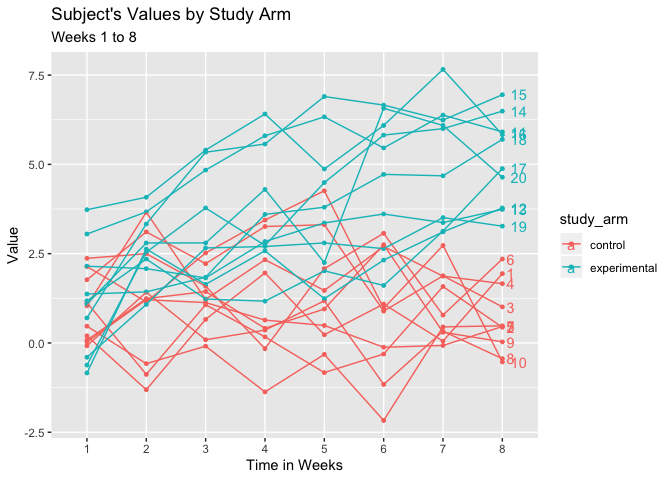
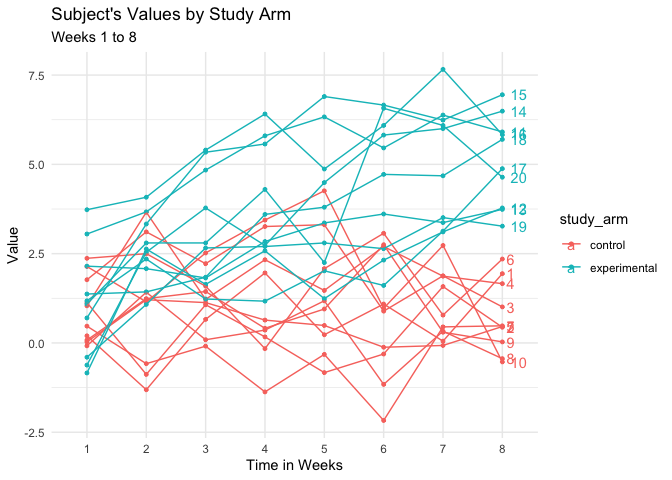
problem 3 - part 3 and 4

diff --git a/p8105_hw5_cq2207.md b/p8105_hw5_cq2207.md
@@ -7,14 +7,14 @@ Carolina Q Cardoso
 library(tidyverse)
 ```
 
-    ## ── Attaching packages ─────────────────────────────────────────────────────────── tidyverse 1.2.1 ──
+    ## ── Attaching packages ────────────────────────────────────────────────────────────────────────────── tidyverse 1.2.1 ──
 
     ## ✔ ggplot2 3.2.1     ✔ purrr   0.3.2
     ## ✔ tibble  2.1.3     ✔ dplyr   0.8.3
     ## ✔ tidyr   1.0.0     ✔ stringr 1.4.0
     ## ✔ readr   1.3.1     ✔ forcats 0.4.0
 
-    ## ── Conflicts ────────────────────────────────────────────────────────────── tidyverse_conflicts() ──
+    ## ── Conflicts ───────────────────────────────────────────────────────────────────────────────── tidyverse_conflicts() ──
     ## ✖ dplyr::filter() masks stats::filter()
     ## ✖ dplyr::lag()    masks stats::lag()
 
@@ -99,7 +99,8 @@ data_complete %>%
     title = "Subject's Values by Study Arm",
     subtitle = "Weeks 1 to 8",
     x = "Time in Weeks",
-    y = "Value")
+    y = "Value") + 
+  theme_minimal() 
 ```
 
 ![](p8105_hw5_cq2207_files/figure-gfm/Problem2-1.png)<!-- -->
@@ -129,11 +130,11 @@ higehr values than at baseline (Week 1).
 ``` r
 set.seed(10)
 
-sim_regression = function(beta1, n = 30, beta0 = 2) {
+sim_regression = function(beta1 = 0, beta0 = 2, n =30) {
   
   sim_data = tibble(
     x = rnorm(n, mean = 0, sd = 1),
-    y = beta0 + beta1 * x + rnorm(n, mean = 0, sd = 50^(.5))
+    y = beta0 + beta1 * x + rnorm(n, 0, sd = 50^(.5))
   )
   
   ls_fit = lm(y ~ x, data = sim_data) %>% broom::tidy()
@@ -168,3 +169,77 @@ sim_results
     ## # … with 9,990 more rows
 
 3)  Repeat the above for β1={1,2,3,4,5,6}
+
+<!-- end list -->
+
+``` r
+b1_values = list( 
+              "b1_1" = 1, 
+              "b1_2" = 2, 
+              "b1_3" = 3,
+              "b1_4" = 4,
+              "b1_5" = 5,
+              "b1_6" = 6
+              )
+
+sim_results2 = 
+  tibble(beta_1 = c(1,2,3,4,5,6)) %>% 
+  mutate(
+    output_lists = map(.x = b1_values, ~rerun(10000, sim_regression(beta1 = .x))),
+    estimate_dfs = map(output_lists, bind_rows)) %>% 
+  select(-output_lists) %>% 
+  unnest(estimate_dfs)
+sim_results2
+```
+
+    ## # A tibble: 60,000 x 3
+    ##    beta_1 beta1_hat p_value
+    ##     <dbl>     <dbl>   <dbl>
+    ##  1      1     1.29   0.291 
+    ##  2      1     2.12   0.120 
+    ##  3      1     0.702  0.668 
+    ##  4      1    -1.35   0.339 
+    ##  5      1     1.62   0.175 
+    ##  6      1     2.83   0.1000
+    ##  7      1     3.04   0.0939
+    ##  8      1     0.703  0.605 
+    ##  9      1     1.54   0.282 
+    ## 10      1     3.11   0.0225
+    ## # … with 59,990 more rows
+
+4)  Make a plot showing the proportion of times the null was rejected
+    (the power of the test) on the y axis and the true value of β2 on
+    the x axis. Describe the association between effect size and power.
+
+<!-- end list -->
+
+``` r
+sim_results2 %>%
+  mutate(reject = ifelse(p_value < 0.05, "yes", "no"), reject = as.factor(reject)) %>%
+  group_by(beta_1, reject) %>% 
+  summarize(n = n()) %>% 
+  mutate(
+    power = (n/sum(n))
+  ) %>% 
+  filter(reject == "yes") %>% 
+  ggplot(aes(x = beta_1, y=power, fill = power)) + 
+  geom_col() + 
+  labs(
+    title = "Power by Effect Size Among Rejected Null Hypothesis",
+    x="Effect Size (Beta1)", 
+    y="Power") + 
+  theme_minimal() 
+```
+
+![](p8105_hw5_cq2207_files/figure-gfm/problem3-cont-1.png)<!-- -->
+
+As effect size incerases, power also incerases. There is a positive
+relationship between the two measures.
+
+5)  Make a plot showing the average estimate of β̂ 1 on the y axis and
+    the true value of β1 on the x axis. Make a second plot (or overlay
+    on the first) the average estimate of β̂ 1 only in samples for which
+    the null was rejected on the y axis and the true value of β1 on the
+    x axis. Is the sample average of β̂ 1 across tests for which the
+    null is rejected approximately equal to the true value of β1? Why or
+    why not?
